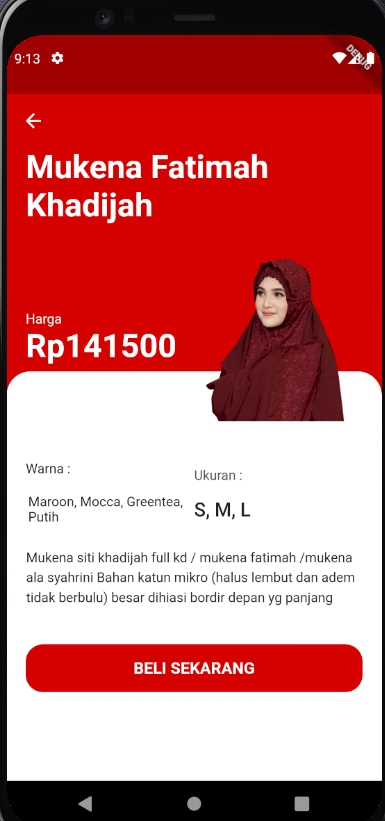
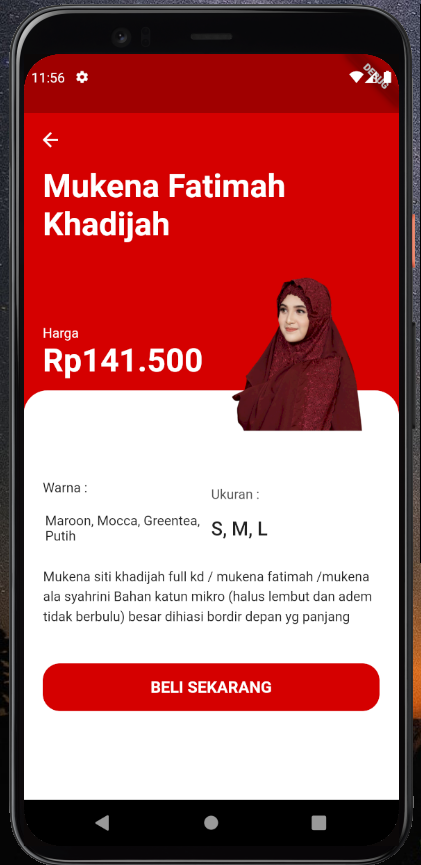
Memisahkan data pada halaman kategori mukena dan edit readme.md

diff --git a/katalog_toko/lib/models/product.dart b/katalog_toko/lib/models/product.dart
@@ -2,9 +2,9 @@ import 'package:flutter/material.dart';
 import 'package:katalog_toko/constants.dart';
 
 class Product {
-  final String image, title, description, size, colorType;
-  final int price, id;
-  final Color color;
+  final String image, title, description, size, colorType, price, color;
+  final int id;
+
   Product({
     required this.id,
     required this.image,
@@ -15,115 +15,14 @@ class Product {
     required this.colorType,
     required this.color,
   });
-}
 
-List<Product> products = [
-  Product(
-    id: 1,
-    title: "Mukena Rayon",
-    price: 71250,
-    size: "S, M, L",
-    description: "Mukena Rayon berbahan rayon motif print plus tas",
-    image: "assets/images/mukenaRayon.png",
-    color: Color(0xFFF06292),
-    colorType: "Cream, Tosca, Pink,\nMerah, Ungu",
-  ),
-  Product(
-    id: 2,
-    title: "Mukena Jumbo Hyget",
-    price: 57000,
-    size: "Allsize fit to XL",
-    description: "Mukena Jumbo Hyget menggunakan bahan Hyget Premium",
-    image: "assets/images/mukenaJumbo.png",
-    color: Color(0xFFD7CCC8),
-    colorType: "Lavender, Maroon, Putih,\nNavy, Kunyit",
-  ),
-  Product(
-    id: 3,
-    title: "Mukena Katun Rosella",
-    price: 125000,
-    size: "S, M, L",
-    description:
-        "Mukena katun rosella terbuat dari bahan katun Rosella jatuh dan tidak kusut, tidak menerawang, lembut, adem,  berwarna pastel dan bordir yang cantik, dan tentu saja nyaman di pakai.",
-    image: "assets/images/mukenaKatunRosella.png",
-    color: Color(0xFFB9F6CA),
-    colorType: "Grey, White, Khaky,\nMaroon, Brown",
-  ),
-  Product(
-    id: 4,
-    title: "Mukena Katun Tie Dye",
-    price: 68000,
-    size: "S, M, L",
-    description:
-        "Mukena Katun Tie Dye berbahan katun Rayon, memakai rempel di bagian atasan, karakteristik bahan dingin, lembut, tidak mudah lusut, nyaman digunakan sehari-hari",
-    image: "assets/images/mukenaKatunTieDye.png",
-    color: Color(0xFF80D8FF),
-    colorType: "Tosca, Maroon, Salem,\nCoksu",
-  ),
-  Product(
-    id: 5,
-    title: "Mukena Renda Rajut",
-    price: 75110,
-    size: "S, M, L",
-    description:
-        "Bahan katun. Cocok buat traveling pouchnya ada talinya di sudut atas biar gampang dibawa kemana mana maupun sehari hari ,bahan juga adem ,cocok juga sebagai hadiah buat ibu kita tercinta sodara atau sahabat dekat,,",
-    image: "assets/images/mukenaRenda.png",
-    color: Color(0xFFFF4081),
-    colorType: "Salem, Rouge, Ice blue,\nLight brown, Navy",
-  ),
-  Product(
-    id: 6,
-    title: "Mukena Fatimah Khadijah",
-    price: 141500,
-    size: "S, M, L",
-    description:
-        "Mukena siti khadijah full kd / mukena fatimah /mukena ala syahrini Bahan katun mikro (halus lembut dan adem tidak berbulu) besar dihiasi bordir depan yg panjang",
-    image: "assets/images/mukenaFatimah.png",
-    color: Color(0xFFD50000),
-    colorType: "Maroon, Mocca, Greentea,\nPutih",
-  ),
-  Product(
-    id: 7,
-    title: "Mukena Shireen Renda",
-    price: 150000,
-    size: "S, M, L",
-    description:
-        "Bahan Katun Mikro. Serat lebih tebal dan padat dari katun biasa sehingga tidak tembus pandang/nerawang. Tekstur halus dan lembut sehingga nyaman dipakai, perawatan mudah Bersifat kuat dan tahan lama, cocok dipakai di segala cuaca, tidak menimbulkan iritasi/alergi (gatal-gatal)",
-    image: "assets/images/mukenaShireen.png",
-    color: Color(0xFFFFA726),
-    colorType: "Grey, Emerald, Navy,\nHitam, Coksu",
-  ),
-  Product(
-    id: 8,
-    title: "Mukena Bordir Renda",
-    price: 90250,
-    size: "S, M, L",
-    description:
-        "Mukena bordir yang lagi trend, bahan katun yang halus lembut nyaman di pakai dan tidak kusut  dan di hiasi dengan renda yang sangat cantik dan mewah. Bahan Katun Mikro (Lembut, tebal. adem dan tidak nerawang)",
-    image: "assets/images/mukenaBordir.png",
-    color: Color(0xFF795548),
-    colorType: "Bordir Coklat, Bordir Turkis,\nBordir Biru",
-  ),
-  Product(
-    id: 9,
-    title: "Mukena Anak / Rayon",
-    price: 120000,
-    size: "S, M, L",
-    description:
-        "Mukenah anak dari Kakha series terbuat dari bahan Rayon Twill premium. Bahan rayon twill ini tidak tebal, kainnya lebih ringan daripada katun lainnya sehingga sangat enteng untuk dipakai saat sholat. Bahan mukenah anak ini juga sangat halus dan lembut, sehingga anak tetap merasa sejuk meskipun sholat di siang maupun malam hari.",
-    image: "assets/images/mukenaAnak1.png",
-    color: Color(0xFF43A047),
-    colorType: "Terracotta, Army, Nude,\nHijau Mint",
-  ),
-  Product(
-    id: 10,
-    title: "Mukena Anak Daydream",
-    price: 99900,
-    size: "S, M, L",
-    description:
-        "Mukena Anak Daydream bahan katun rayon. Satu set mukena atasan + bawahan + tas",
-    image: "assets/images/mukenaAnak2.png",
-    color: Color(0xFF42A5F5),
-    colorType: "Lilac, Biru, Pink,\nGreentea, Peach",
-  ),
-];
+  factory Product.fromJson(Map<String, dynamic> json) => Product(
+      id: json['id'],
+      image: json['image'],
+      title: json['title'],
+      price: json['price'],
+      description: json['description'],
+      size: json['size'],
+      color: json['color'],
+      colorType: json['colorType']);
+}

diff --git a/katalog_toko/lib/screens/hal_mukena.dart b/katalog_toko/lib/screens/hal_mukena.dart
@@ -1,41 +1,55 @@
 import 'package:flutter/material.dart';
 import 'package:katalog_toko/constants.dart';
 import 'package:katalog_toko/models/product.dart';
+import 'package:katalog_toko/repositories/mukena_repository.dart';
 import 'package:katalog_toko/screens/details/detail_mukena.dart';
 import 'package:katalog_toko/screens/item_card.dart';
 import 'package:flutter/src/widgets/navigator.dart';
 
 class Mukena extends StatelessWidget {
+  final ProductRepository mukena = ProductRepository();
   @override
   Widget build(BuildContext context) {
-    return Container(
-      child: Column(
-        children: <Widget>[
-          Expanded(
-            child: Padding(
-              padding: const EdgeInsets.symmetric(horizontal: kDefaultPadding),
-              child: GridView.builder(
-                itemCount: products.length,
-                gridDelegate: SliverGridDelegateWithFixedCrossAxisCount(
-                    crossAxisCount: 2,
-                    mainAxisSpacing: kDefaultPadding,
-                    crossAxisSpacing: kDefaultPadding,
-                    childAspectRatio: 0.75),
-                itemBuilder: (context, index) => ItemCard(
-                  product: products[index],
-                  press: () => Navigator.push(
-                    context,
-                    MaterialPageRoute(
-                      builder: (context) => DetailMukena(
-                        product: products[index],
+    return Scaffold(
+      body: FutureBuilder(
+        future: mukena.getProduct(),
+        builder: (BuildContext context, AsyncSnapshot res) {
+          if (res.hasData) {
+            return Container(
+              child: Column(
+                children: <Widget>[
+                  Expanded(
+                    child: Padding(
+                      padding: const EdgeInsets.symmetric(
+                          horizontal: kDefaultPadding),
+                      child: GridView.builder(
+                        itemCount: res.data.length,
+                        gridDelegate: SliverGridDelegateWithFixedCrossAxisCount(
+                            crossAxisCount: 2,
+                            mainAxisSpacing: kDefaultPadding,
+                            crossAxisSpacing: kDefaultPadding,
+                            childAspectRatio: 0.75),
+                        itemBuilder: (context, index) => ItemCard(
+                          product: res.data[index],
+                          press: () => Navigator.push(
+                            context,
+                            MaterialPageRoute(
+                              builder: (context) => DetailMukena(
+                                product: res.data[index],
+                              ),
+                            ),
+                          ),
+                        ),
                       ),
                     ),
                   ),
-                ),
+                ],
               ),
-            ),
-          ),
-        ],
+            );
+          } else {
+            return Container();
+          }
+        },
       ),
     );
   }

diff --git a/katalog_toko/lib/screens/details/body_mukena.dart b/katalog_toko/lib/screens/details/body_mukena.dart
@@ -86,7 +86,7 @@ class Mukena extends StatelessWidget {
                                 child: FlatButton(
                                   shape: RoundedRectangleBorder(
                                       borderRadius: BorderRadius.circular(18)),
-                                  color: product.color,
+                                  color: Color(int.parse(product.color)),
                                   onPressed: () {},
                                   child: Text(
                                     "Beli Sekarang".toUpperCase(),

diff --git a/katalog_toko/lib/repositories/mukena_repository.dart b/katalog_toko/lib/repositories/mukena_repository.dart
@@ -1,0 +1,16 @@
+import 'dart:convert';
+import 'package:http/http.dart' as http;
+import 'package:katalog_toko/models/product.dart';
+
+class ProductRepository {
+  Future getProduct() async {
+    var response =
+        await http.get(Uri.parse('http://192.168.0.114:3000/product'));
+    if (response.statusCode == 200) {
+      List data = json.decode(response.body);
+      return data.map((value) => Product.fromJson(value)).toList();
+    } else {
+      throw Exception();
+    }
+  }
+}

diff --git a/katalog_toko/lib/screens/item_card.dart b/katalog_toko/lib/screens/item_card.dart
@@ -27,7 +27,7 @@ class ItemCard extends StatelessWidget {
             margin: EdgeInsets.only(top: kDefaultPadding / 2),
             padding: EdgeInsets.all(kDefaultPadding),
             decoration: BoxDecoration(
-              color: product.color,
+              color: Color(int.parse(product.color)),
               borderRadius: BorderRadius.circular(16),
             ),
             child: Image.asset(

diff --git a/katalog_toko/lib/screens/details/detail_mukena.dart b/katalog_toko/lib/screens/details/detail_mukena.dart
@@ -10,9 +10,9 @@ class DetailMukena extends StatelessWidget {
   @override
   Widget build(BuildContext context) {
     return Scaffold(
-      backgroundColor: product.color,
+      backgroundColor: Color(int.parse(product.color)),
       appBar: AppBar(
-        backgroundColor: product.color,
+        backgroundColor: Color(int.parse(product.color)),
         elevation: 0,
       ),
       body: Mukena(
